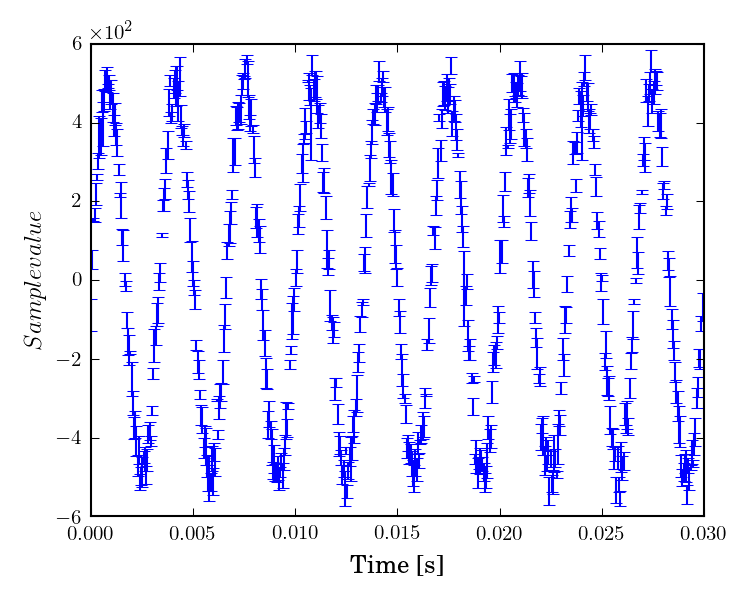
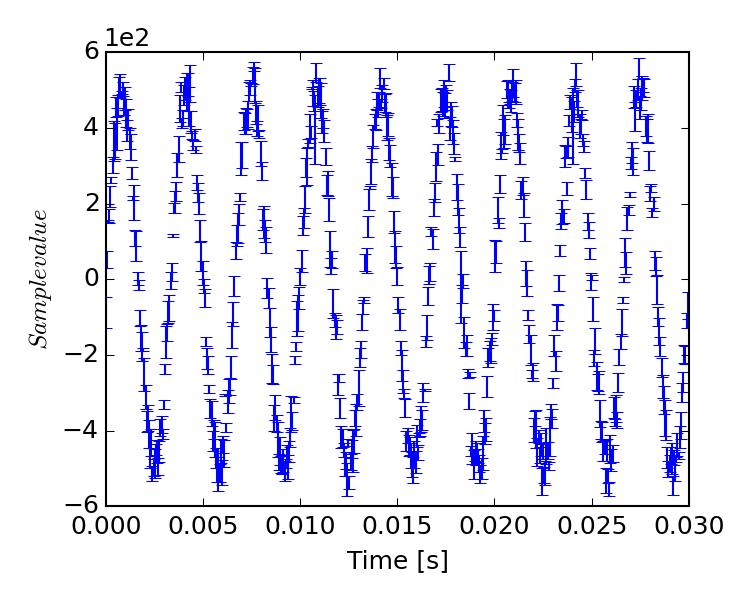
Update resume.py for RMS function, regenerate all graphs

diff --git a/IntroComputing/resume.py b/IntroComputing/resume.py
@@ -9,10 +9,10 @@ import numpy
 import matplotlib.pyplot as p
 #Set custom properties of matplotlib
 #matplotlib will interpret all text as LaTeX
-p.rcParams['text.usetex'] = True
+"""p.rcParams['text.usetex':
 p.rcParams['text.latex.unicode']= False
 p.rcParams['mathtext.fontset'] = 'stix'
-p.rcParams['font.family'] = 'STIXGeneral'
+p.rcParams['font.family'] = 'STIXGeneral'"""
 p.rcParams['figure.autolayout'] = True
 #plt.ticklabel_format(style='sci', axis='x', scilimits=(0,0))
 #from itertools import izip 
@@ -39,21 +39,20 @@ if False:
 
 # once you have written all the required functions, the following
 # should work, and give correct results
-"""
+
 def rms(t,x):
     square = multiply(x,x)
-    mean = integral(t,square)[1] # not true yet!!!
-    mean[1:,:] = numpy.column_stack((t,t))[1:,:]
-    mean[0,:] = 0  # this is probably a matter of dogma
-    return sqrt(mean)
-"""
-def rms(t,x):
-    square = multiply(x,x)
-    mean = integral(t,square) # not true yet!!!
-    mean[1:,:] = numpy.column_stack((t,t))[1:,:]
-    mean[0,:] = 0  # this is probably a matter of dogma
+    # 2 columns; value -> errorbars 
+    mean = integral(t,square)
+    times = numpy.column_stack((t,t))
+    # 2 columns: both time 
+    mean[1:,0] /= times[1:,0]
+    mean[1:,1] /= times[1:,1]
+    # divide both by the times 
+    mean[0,:] = 0
     return sqrt(mean)
     
+
 if False:
     d_rms = rms(t,d)
     p.figure()
@@ -100,7 +99,7 @@ def derivative (t,y):
         errY2 = y[x+1,1]
         #num = numpy.sqrt(numpy.square(errY1)+numpy.square(errY2))
         #denom = ytwo-yone
-        uncerty[x] = (1/(ttwo-tone))*numpy.sqrt((errY2**2)-(errY1**2))
+        uncerty[x] = (1/(ttwo-tone))*numpy.sqrt((errY2**2)+(errY1**2))
         
     #toReturn = numpy.concatenate((values,midtime,uncerty),axis=1)
     #toReturn = numpy.transpose(toReturn)
@@ -144,7 +143,8 @@ foo = derivative(t,a)
 bar = integral(t,a)    
 drms = rms(t,d)
     
-"""# Plotting Graph of a"""
+
+# Plotting Graph of a
 p.figure(figsize=(5,4), dpi=150)
 p.ticklabel_format(style='sci', axis='y', scilimits=(0,0))
 p.xlabel(r'Time [s]',fontsize=12)
@@ -153,7 +153,7 @@ p.errorbar(t,a[:,0],a[:,1],fmt='none',errorevery=1,label="Signal a")
 
 p.savefig('a.png',dpi=150,pad_inches=0.4) 
 
-"""# Plotting a^2"""
+# Plotting a^2
 p.figure(figsize=(5,4), dpi=150)
 p.ticklabel_format(style='sci', axis='y', scilimits=(0,0))
 p.xlabel(r'Time [s]',fontsize=12)
@@ -162,17 +162,17 @@ p.errorbar(t,mult[:,0],mult[:,1],fmt='none')
 
 p.savefig('asquare.png',dpi=150,pad_inches=0.4) 
 
-""" Plotting derivative of a """
+# Plotting derivative of a 
 p.figure(figsize=(5,4), dpi=150)
 p.ticklabel_format(style='sci', axis='y', scilimits=(0,0))
 p.xlabel(r'Time [s]',fontsize=12)
-p.ylabel(r'$ \frac{d}{dt} (signal) \left[ \displaystyle\frac{1}{s} \right] $',fontsize=16)
+p.ylabel(r'$ \frac{d}{dt} (signal) \left[ \frac{1}{s} \right] $',fontsize=16)
 p.errorbar(foo[:,0],foo[:,1],foo[:,2],fmt='none')
 
 p.savefig('aderiv.png',dpi=150,pad_inches=0.4) 
 
 
-""" Plotting integral of a """
+# Plotting integral of a
 p.figure(figsize=(5,4), dpi=150)
 p.ticklabel_format(style='sci', axis='y', scilimits=(0,0))
 p.xlabel(r'Time [s]',fontsize=12)
@@ -181,7 +181,7 @@ p.errorbar(t,bar[:,0],bar[:,1],fmt='none')
 
 p.savefig('aintegral.png',dpi=150,pad_inches=0.4) 
 
-""" Plotting Graph of d """
+# Plotting Graph of d 
 p.figure(figsize=(5,4), dpi=150)
 p.ticklabel_format(style='sci', axis='y', scilimits=(0,0))
 p.xlabel(r'Time [s]',fontsize=12)
@@ -190,7 +190,7 @@ p.errorbar(t,d[:,0],d[:,1],fmt='none')
 
 p.savefig('d.png',dpi=150,pad_inches=0.4) 
 
-""" Plotting rms of d """
+# Plotting rms of d 
 p.figure(figsize=(5,4), dpi=150)
 p.ticklabel_format(style='sci', axis='y', scilimits=(0,0))
 p.xlabel(r'Time [s]',fontsize=12)
@@ -198,7 +198,6 @@ p.ylabel(r'$RMS \ signal$',fontsize=12)
 p.errorbar(t,drms[:,0],drms[:,1],fmt='none')
 
 p.savefig('drms.png',dpi=150,pad_inches=0.4) 
-
 
 
 # I can verify correctness using known quantity
